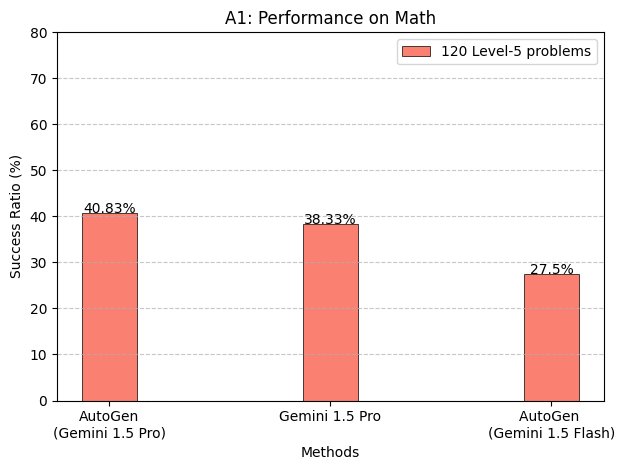
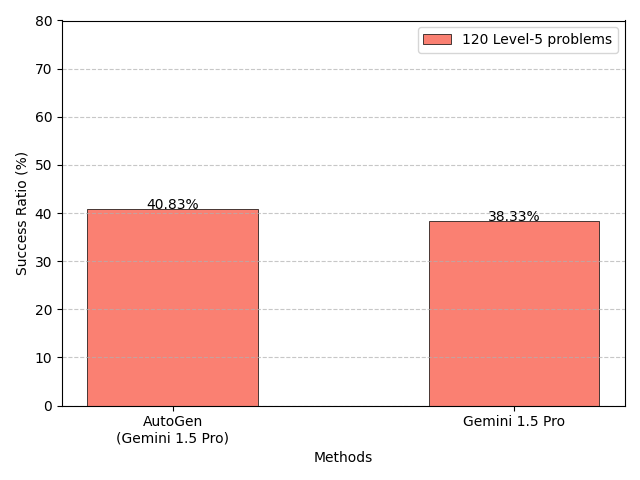
Updated outdated hyperlinks in plot_result files

Changed region(s): [[0.0, 0.0298, 1.0, 0.9532], [0.4864, 0.9234, 0.5776, 0.983]]

diff --git a/experiment_results/A3-decision-making-ALFWorld/plot_results.py b/experiment_results/A3-decision-making-ALFWorld/plot_results.py
@@ -1,0 +1,52 @@
+import matplotlib.pyplot as plt
+import numpy as np
+
+# the results where recreated using https://github.com/qingyun-wu/autogen/tree/2024-03/application/A3-decision-making-ALFWorld
+# the results were saved in JSON files in the same directory as this script
+# the results are to be compared to the original results from the paper: https://arxiv.org/pdf/2308.08155
+
+# Data
+methods = ["ALFChat (3 agent)", "ALFChat (2 agent)"]
+average = [65, 51]
+best_of_3 = [79, 68]
+
+# Set up the bar chart
+x = np.arange(len(methods))
+width = 0.35
+
+fig, ax = plt.subplots(figsize=(10, 6))
+
+# Create bars
+rects1 = ax.bar(x - width/2, average, width, label='Average', color='salmon', edgecolor='black', linewidth=0.5)
+rects2 = ax.bar(x + width/2, best_of_3, width, label='Best of 3', color='#ADD6E3', edgecolor='black', linewidth=0.5)
+
+# Customize the chart
+ax.set_ylabel('Success Ratio (%)')
+ax.set_xlabel('Methods')
+ax.set_title('A3: Performance on ALFWorld')
+ax.set_xticks(x)
+ax.set_xticklabels(methods)
+ax.legend()
+
+# Set y-axis range
+ax.set_ylim(0, 100)
+
+# Add grid
+ax.yaxis.grid(True, linestyle='--', alpha=0.7)
+
+# Add value labels on the bars
+def autolabel(rects):
+    for rect in rects:
+        height = rect.get_height()
+        ax.annotate(f'{height}%',
+                    xy=(rect.get_x() + rect.get_width() / 2, height),
+                    xytext=(0, 3),  # 3 points vertical offset
+                    textcoords="offset points",
+                    ha='center', va='bottom')
+
+autolabel(rects1)
+autolabel(rects2)
+
+# Adjust layout and display
+plt.tight_layout()
+plt.show()

diff --git a/experiment_results/A7-decision-making-Miniwob++/plot_results.py b/experiment_results/A7-decision-making-Miniwob++/plot_results.py
@@ -3,6 +3,10 @@ import os
 import matplotlib.pyplot as plt
 import numpy as np
 
+# The experiments where conducted using the code provided here: https://github.com/qingyun-wu/autogen/tree/2024-03/application/A7-decision-making-MiniWob%2B%2B
+# The results were saved in JSON files in the same directory as this script
+# The results are to be compared to the original results from the paper: https://arxiv.org/pdf/2308.08155
+
 # Original results from page 33: https://arxiv.org/pdf/2308.08155
 paper_result = paper_result = [
     {'filename': 'choose-list', 'value': 5},
